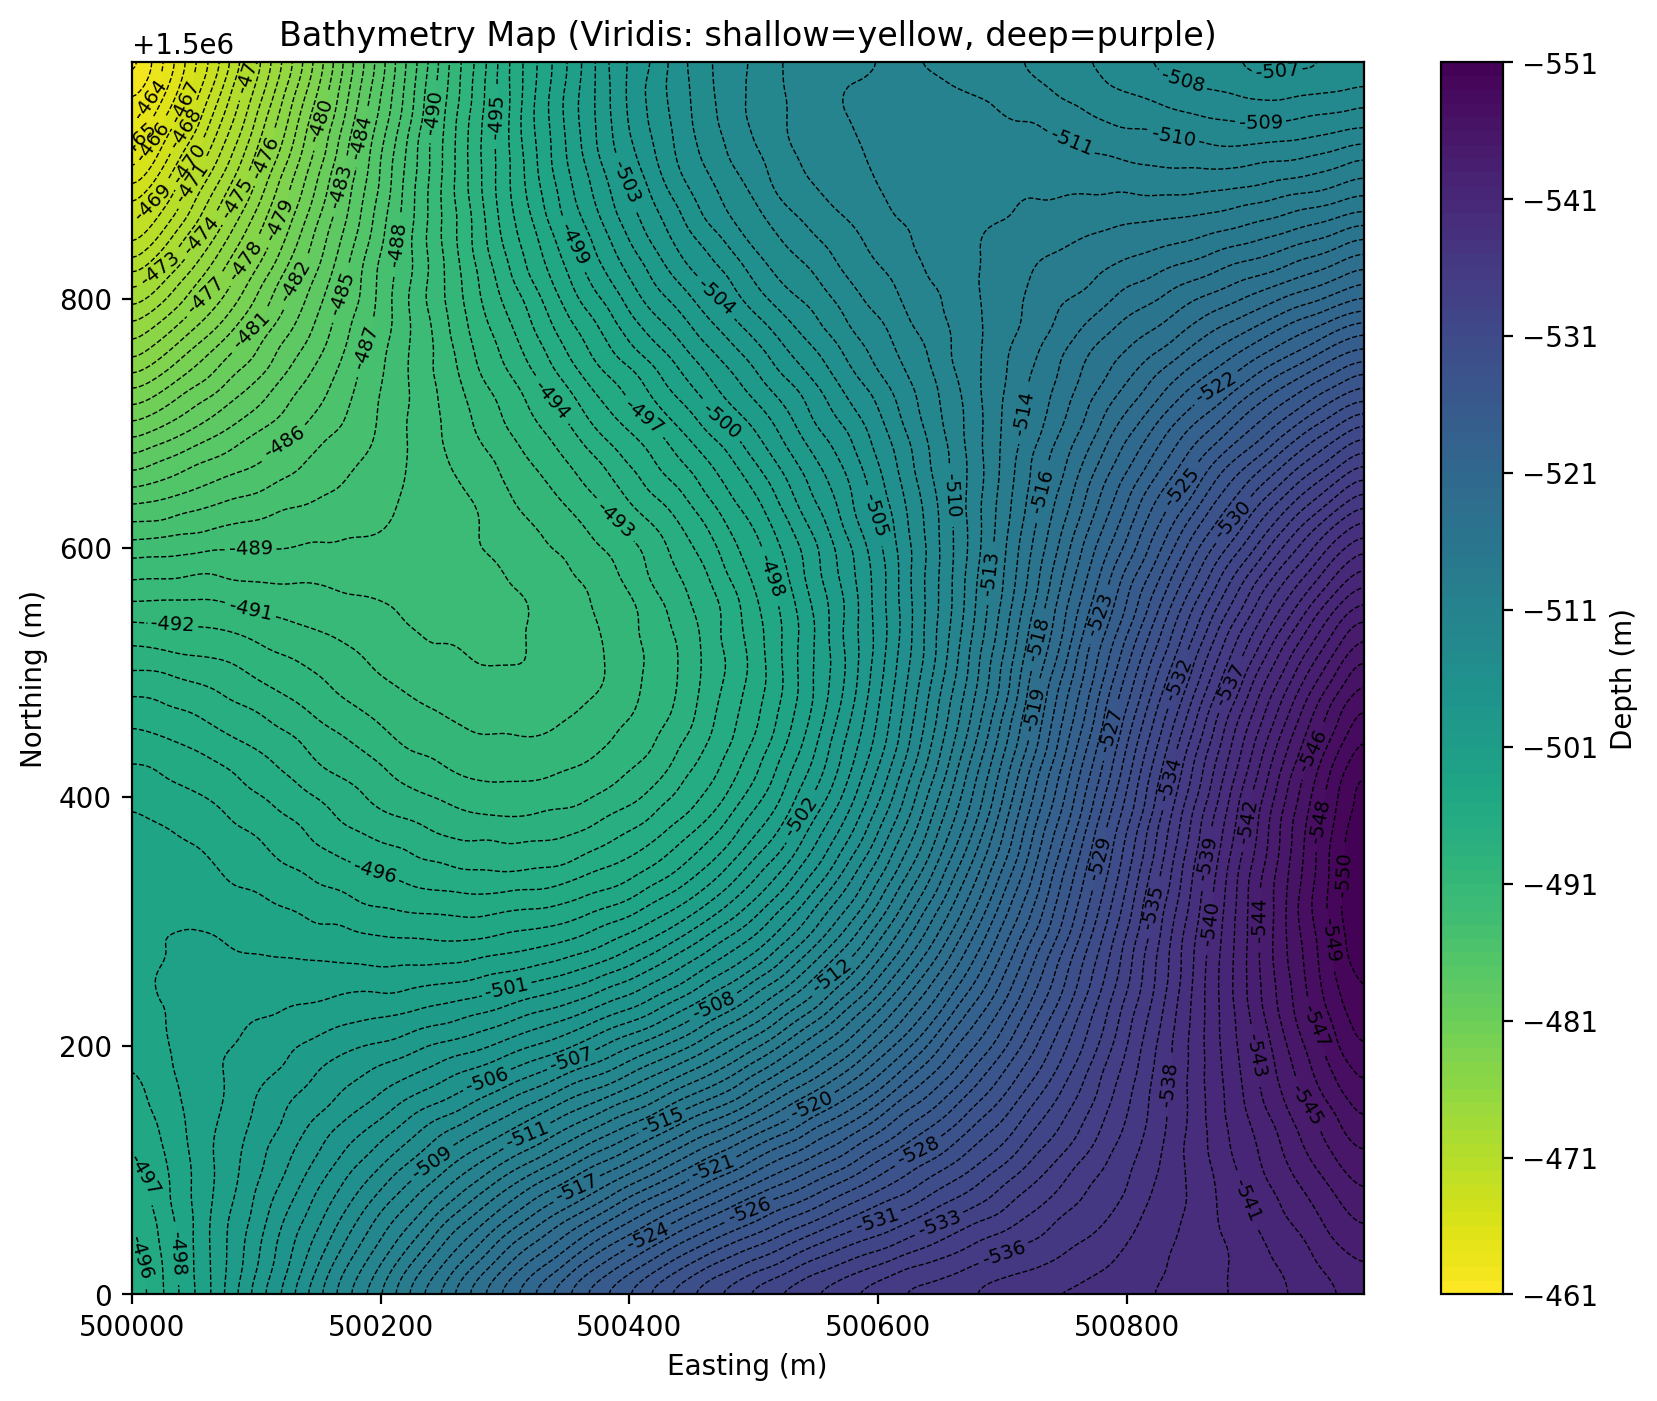
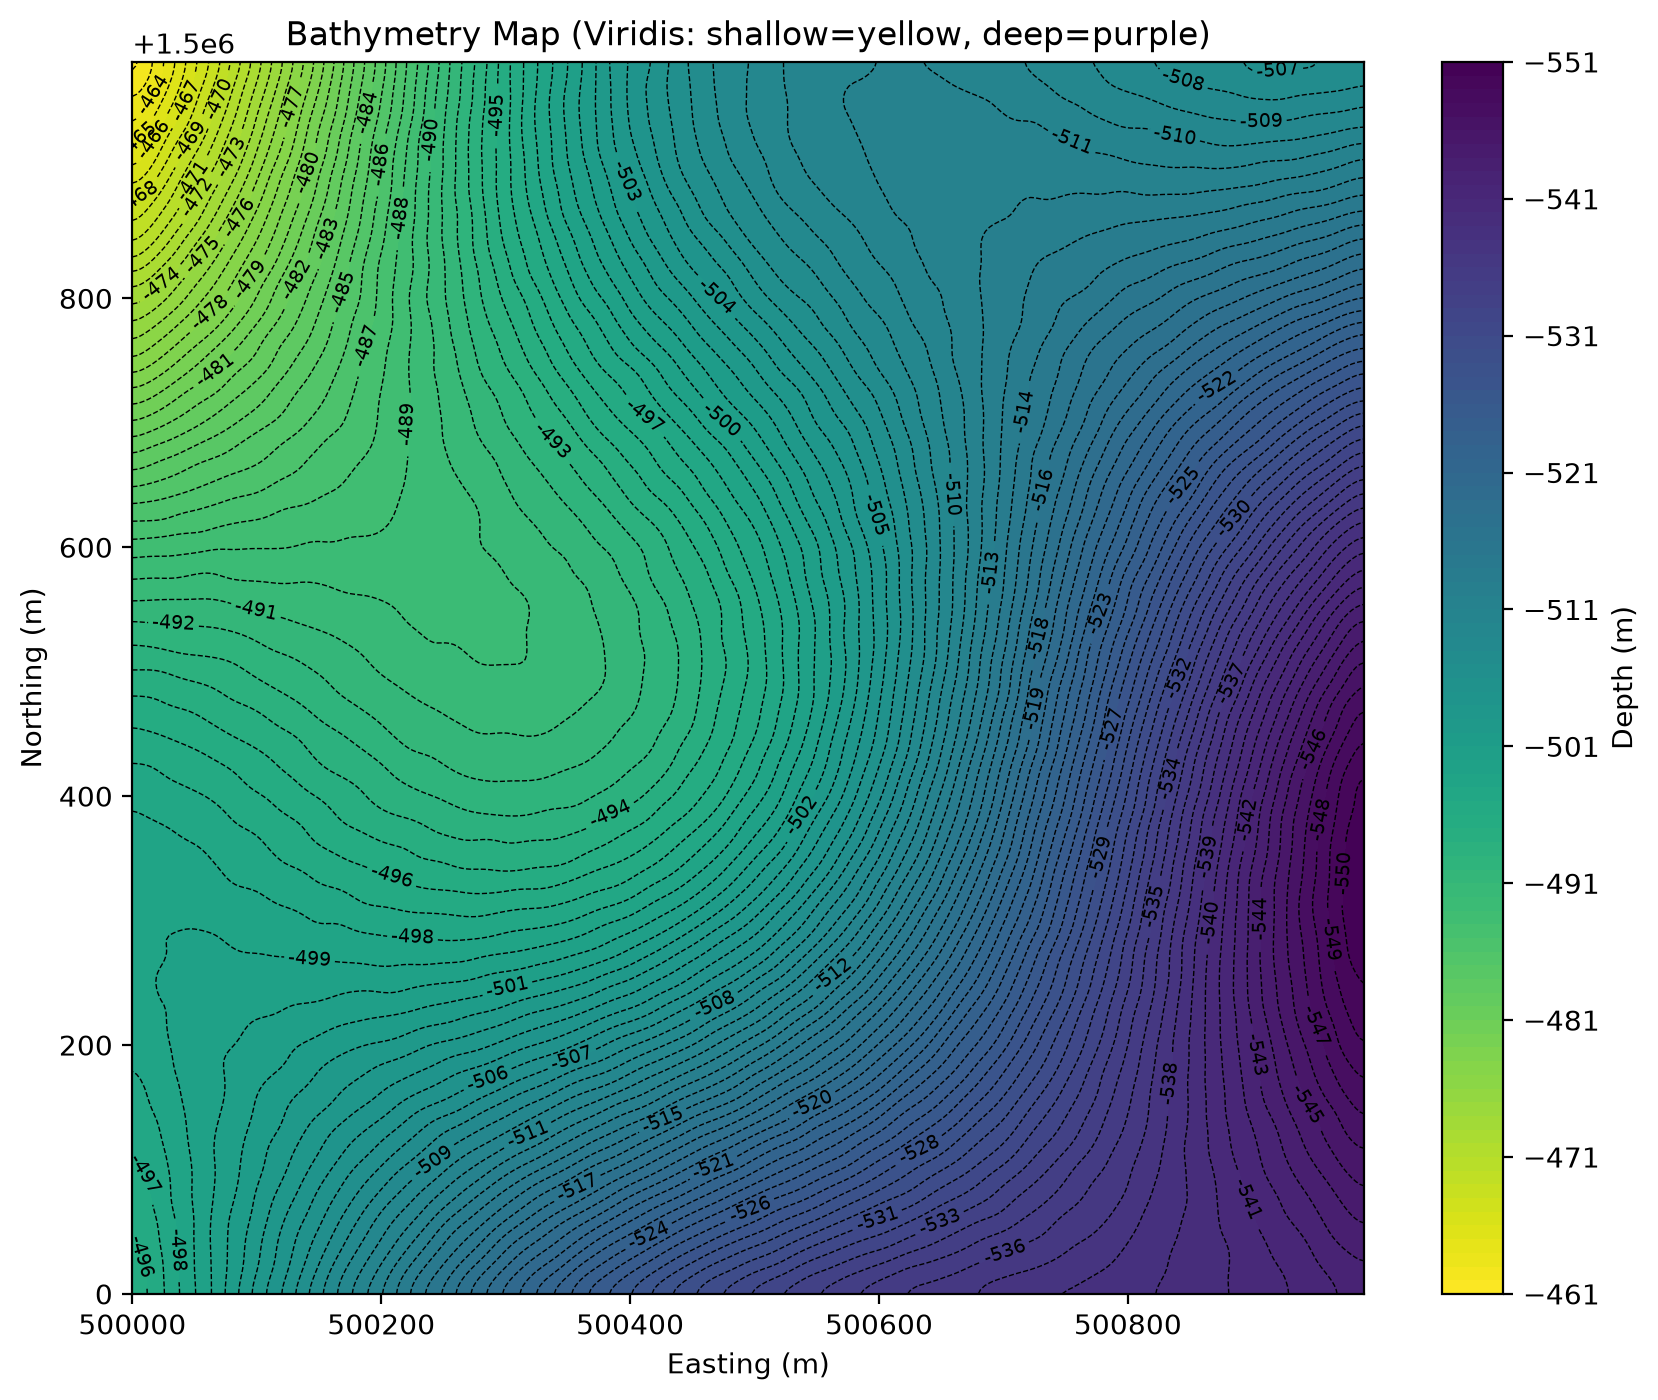
Simplifying code

diff --git a/main.py b/main.py
@@ -6,16 +6,22 @@ from scipy.interpolate import griddata
 from scipy.ndimage import gaussian_filter
 
 # ---------------- PARAMETERS ----------------
-FOLDER = "simulated_bathy_grid_zone42n.xlsx"   # folder with all data files (Excel / CSV)
-DEPTH_POSITIVE_DOWN = True               # True = depths are positive numbers
-GRID_SIZE = 300                          # grid cells (higher = finer)
-SMOOTHING = 3                            # 0 = no smoothing, 2-5 = smooth
-CONTOUR_INTERVAL = 1                     # contour line every ... m
-COLORMAP = "viridis"                     # colours: shallow (yellow) -> deep (purple)
+# Input data folder (Excel/CSV files)
+FOLDER = "simulated_bathy_grid_zone42n.xlsx"
+# If depths should be treated as positive numbers (downward positive)
+DEPTH_POSITIVE_DOWN = True
+# Grid resolution: more cells = finer map
+GRID_SIZE = 300
+# Smoothing strength: 0 = none, 2-5 = gentle smoothing
+SMOOTHING = 3
+# Contour line spacing in meters
+CONTOUR_INTERVAL = 1
+# Color scheme: viridis goes from yellow (shallow) to purple (deep)
+COLORMAP = "viridis"
+# Output filename
 OUTPUT = "bathymetry_map.png"
 
-# Viridis color stops for consistent legend (matches HTML)
-# These are the standard viridis colormap stops
+# Standard viridis color stops for legend
 VIRIDIS_STOPS = [
     (0.0, "#440154"),   # deep purple
     (0.25, "#414487"),  # purple-blue
@@ -24,70 +30,125 @@ VIRIDIS_STOPS = [
     (1.0, "#fde725"),   # yellow
 ]
 
-# ---------------- 1. READ ALL FILES ----------------
+# ---------------- 1. LOAD ALL DATA FILES ----------------
 import os
-if os.path.isfile(FOLDER):                           # a single file also works
+
+# Find all data files in the folder
+if os.path.isfile(FOLDER):
     files = [FOLDER]
 else:
-    files = [f for ext in ("xlsx", "xls", "csv", "txt")
-             for f in glob.glob(FOLDER + "/**/*." + ext, recursive=True)]
+    files = []
+    for ext in ("xlsx", "xls", "csv", "txt"):
+        for f in glob.glob(FOLDER + "/**/*." + ext, recursive=True):
+            files.append(f)
+
 print("Files found:", len(files))
 
-RENAME = {"LONGITUDE": "X", "LON": "X", "LONG": "X", "EASTING": "X",
-          "EASTING_X_M": "X", "LATITUDE": "Y", "LAT": "Y", "NORTHING": "Y",
-          "NORTHING_Y_M": "Y", "DEPTH": "Z", "ELEVATION_Z_MSL_M": "Z"}
-IS_LATLON = False
-data = []
+# Column name mapping: rename various column names to standard X, Y, Z
+RENAME_MAP = {
+    "LONGITUDE": "X", "LON": "X", "LONG": "X", "EASTING": "X",
+    "EASTING_X_M": "X",
+    "LATITUDE": "Y", "LAT": "Y", "NORTHING": "Y",
+    "NORTHING_Y_M": "Y",
+    "DEPTH": "Z", "ELEVATION_Z_MSL_M": "Z"
+}
+
+has_latlon = False
+data_frames = []
+
 for f in files:
-    df = pd.read_excel(f) if f.endswith((".xlsx", ".xls")) else pd.read_csv(f, sep=None, engine="python")
-    df.columns = [str(c).strip().upper() for c in df.columns]
-    IS_LATLON = IS_LATLON or "LATITUDE" in df.columns or "LAT" in df.columns
-    df = df.rename(columns=RENAME)                  # latitude/longitude/depth -> Y/X/Z
-    if {"X", "Y", "Z"} <= set(df.columns):          # use only files with X, Y, Z
-        data.append(df[["X", "Y", "Z"]])
-        print("Read:", f, len(df), "points")
+    # Read file: Excel or CSV
+    if f.endswith((".xlsx", ".xls")):
+        df = pd.read_excel(f)
     else:
-        print("Skipped (no X, Y, Z columns):", f, "| columns are:", list(df.columns))
+        df = pd.read_csv(f, sep=None, engine="python")
 
-if not data:
-    raise SystemExit("No data read. Check FOLDER path and that columns are X, Y, Z (or Longitude, Latitude, Depth).")
-data = pd.concat(data).apply(pd.to_numeric, errors="coerce").dropna()
+    # Normalize column names to uppercase
+    df.columns = [str(c).strip().upper() for c in df.columns]
 
-x = data["X"].values                                 # easting (m)
-y = data["Y"].values                                 # northing (m)
-depth = data["Z"].values if DEPTH_POSITIVE_DOWN else -data["Z"].values
+    # Check if this file has latitude/longitude columns
+    has_latlon = has_latlon or ("LATITUDE" in df.columns or "LAT" in df.columns)
 
-# ---------------- 2. SMOOTH SURFACE ----------------
-gx, gy = np.meshgrid(np.linspace(x.min(), x.max(), GRID_SIZE),
-                     np.linspace(y.min(), y.max(), GRID_SIZE))
-grid = griddata((x, y), depth, (gx, gy), method="cubic")   # fill gaps between points
+    # Rename columns to standard X, Y, Z names
+    df = df.rename(columns=RENAME_MAP)
+
+    # Keep only files that have X, Y, and Z columns
+    if "X" in df.columns and "Y" in df.columns and "Z" in df.columns:
+        data_frames.append(df[["X", "Y", "Z"]])
+        print("Read:", f, " -", len(df), "points")
+    else:
+        print("Skipped (no X, Y, Z):", f, "| columns:", list(df.columns))
+
+# Exit if no valid data found
+if not data_frames:
+    raise SystemExit("No data read. Check FOLDER path and ensure columns are X, Y, Z (or Longitude, Latitude, Depth).")
+
+# Combine all data, convert to numbers, remove missing values
+all_data = pd.concat(data_frames).apply(pd.to_numeric, errors="coerce").dropna()
+
+# Extract coordinate and depth arrays
+easting = all_data["X"].values
+northing = all_data["Y"].values
+depth = all_data["Z"].values if DEPTH_POSITIVE_DOWN else -all_data["Z"].values
+
+# ---------------- 2. INTERPOLATE AND SMOOTH ----------------
+# Create a regular grid covering the data area
+grid_x, grid_y = np.meshgrid(
+    np.linspace(easting.min(), easting.max(), GRID_SIZE),
+    np.linspace(northing.min(), northing.max(), GRID_SIZE)
+)
+
+# Interpolate depth values onto the grid (cubic fills gaps between points)
+interpolated_grid = griddata((easting, northing), depth, (grid_x, grid_y), method="cubic")
+
+# Apply smoothing if requested
 if SMOOTHING > 0:
-    outside = np.isnan(grid)                               # remember blank area
-    grid = gaussian_filter(np.nan_to_num(grid, nan=np.nanmean(grid)), SMOOTHING)
-    grid[outside] = np.nan                                 # keep outside area blank
-
-# ---------------- 3. PLOT ----------------
-levels = np.arange(np.floor(np.nanmin(grid)), np.nanmax(grid) + CONTOUR_INTERVAL, CONTOUR_INTERVAL)
-fig, ax = plt.subplots(figsize=(10, 8))
-
-# Use viridis (shallow=yellow, deep=purple) with proper colorbar orientation
-fill = ax.contourf(gx, gy, grid, levels=100, cmap=COLORMAP)
-lines = ax.contour(gx, gy, grid, levels=levels, colors="k", linewidths=0.5)
-ax.clabel(lines, fmt="%g", fontsize=7)
-
-# Colorbar: deep (purple) at bottom, shallow (yellow) at top for bathymetry
-cbar = fig.colorbar(fill, label="Depth (m)")
-cbar.ax.invert_yaxis()  # deep = bottom
-
-if IS_LATLON:
-    ax.set_aspect(1 / np.cos(np.radians(y.mean())))   # correct shape for degrees
-    ax.set_xlabel("Longitude")
-    ax.set_ylabel("Latitude")
+    # Remember which grid cells are outside the data area
+    outside_cells = np.isnan(interpolated_grid)
+    # Replace NaN with mean for smoothing, then smooth
+    grid_data = gaussian_filter(np.nan_to_num(interpolated_grid, nan=np.nanmean(interpolated_grid)), SMOOTHING)
+    # Restore NaN for outside cells (keep them blank)
+    grid_data[outside_cells] = np.nan
 else:
-    ax.set_aspect("equal")
-    ax.set_xlabel("Easting (m)")
-    ax.set_ylabel("Northing (m)")
-ax.set_title("Bathymetry Map (Viridis: shallow=yellow, deep=purple)")
+    grid_data = interpolated_grid
+
+# ---------------- 3. CREATE PLOT ----------------
+# Contour levels from floor of min to max, spaced by interval
+levels = np.arange(np.floor(np.nanmin(grid_data)), np.nanmax(grid_data) + CONTOUR_INTERVAL, CONTOUR_INTERVAL)
+
+# Set up the figure
+figure, axis = plt.subplots(figsize=(10, 8))
+
+# Filled contour plot (100 levels) using viridis colormap
+contour_fill = axis.contourf(grid_x, grid_y, grid_data, levels=100, cmap=COLORMAP)
+
+# Contour lines in black
+contour_lines = axis.contour(grid_x, grid_y, grid_data, levels=levels, colors="k", linewidths=0.5)
+# Add labels on contour lines
+axis.clabel(contour_lines, fmt="%g", fontsize=7)
+
+# Colorbar with label
+colorbar = figure.colorbar(contour_fill, label="Depth (m)")
+# Flip colorbar so deep = bottom (purple at bottom)
+colorbar.ax.invert_yaxis()
+
+# Set aspect ratio and labels
+if has_latlon:
+    # Correct shape for degree coordinates
+    axis.set_aspect(1 / np.cos(np.radians(northing.mean())))
+    axis.set_xlabel("Longitude")
+    axis.set_ylabel("Latitude")
+else:
+    # Equal aspect for metric coordinates
+    axis.set_aspect("equal")
+    axis.set_xlabel("Easting (m)")
+    axis.set_ylabel("Northing (m)")
+
+# Title showing color scheme
+axis.set_title("Bathymetry Map (Viridis: shallow=yellow, deep=purple)")
+
+# Save figure at high DPI
 plt.savefig(OUTPUT, dpi=200, bbox_inches='tight')
 # plt.show()  # Commented out for non-interactive use
-print(f"Saved to {OUTPUT}")
+
+print("Saved to:", OUTPUT)
